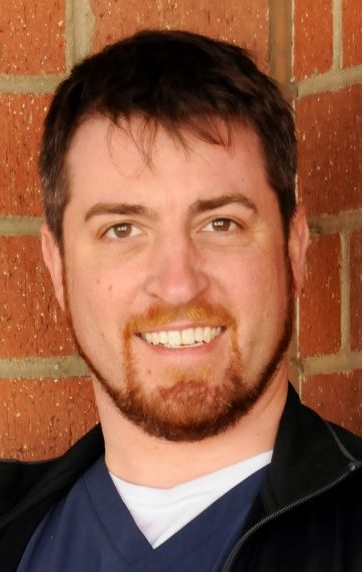
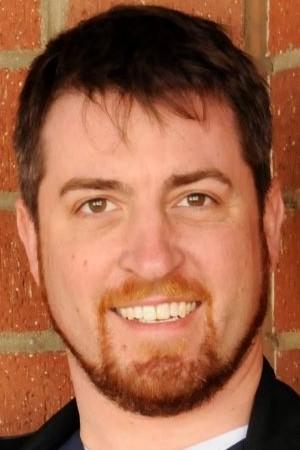
fiximgbug

diff --git a/src/components/bio/bio.scss b/src/components/bio/bio.scss
@@ -1,0 +1,89 @@
+
+.bioContainer {
+    margin-top: 5.5em;
+   
+}
+.bioCardBox {
+    display: flex;
+    flex-wrap: wrap;
+    
+    
+}
+
+.andyPic {
+    border-radius: 25%;
+    width: 43%;
+  
+}
+
+.wrapper {
+    display: flex;
+    justify-content: center;
+    align-items: center;
+    > * {
+      margin: 5px;
+    }
+  }
+  
+  .media {
+    width: 300px;
+    height: 200px;
+    overflow: hidden;
+    position: relative;
+    display: flex;
+    justify-content: center;
+    align-items: center;
+    img {
+        max-width: 100%;
+        height: auto;
+      }
+  }
+  
+  .layer {
+    opacity: 0;
+    position: absolute;
+    display: flex;
+    justify-content: center;
+    align-items: center;
+    width: 10px;
+    height: 90%;
+    background: #FFF;
+    color: #151E3F;
+    transition: all 0.9s ease;
+    p {
+      transition: all 0.9s ease;
+      transform: scale(0.1)
+    }
+  }
+  
+  p {
+    font-family: 'Inconsolata', monospace;
+    text-align: center;
+    font-size: 15px;
+    letter-spacing:1px;
+  }
+  
+  .media:hover .layer {
+    opacity: 0.8;
+    width: 90%;
+    transition: all 0.5s ease;
+    p {
+      transform: scale(1);
+      transition: all 0.9s ease;
+    }
+  }
+  
+  @media (max-width: 800px){
+    body {
+      transform: scale(0.6);
+    }
+  }
+  
+  @media (max-width: 600px) {
+      .wrapper {
+      display: block;
+      > * {
+        margin: 10px;
+      }
+    }
+  }

diff --git a/src/components/bio/Bio.js b/src/components/bio/Bio.js
@@ -3,8 +3,8 @@ import Box from '@mui/material/Box';
 import Card from '@mui/material/Card';
 import Container from '@mui/material/Container';
 
-import './bio.css';
-
+import './bio.scss';
+import resumeData from "../../resumeData.js";
 
 
 import { styled } from '@mui/material/styles';
@@ -25,10 +25,17 @@ export default function Bio() {
     <Box className="bioContainer" sx={{ flexGrow: 1 }}>
       <Grid container spacing={2}>
         <Grid item md={6} xs={12}>
-          <Item >Left item</Item>
+          <Item >
+            <img alt='Andy Humes - Junior Developer' src={resumeData.image} className='andyPic'>
+        
+          </img> 
+          
+          <h1>Welcome to my portfolio.</h1>
+          </Item>
         </Grid>
         <Grid item md={6} xs={12}>
-          <Item >Right item</Item>
+          <Item >This will be a biography sort of thing. If there's room, I might put the links for education etc.
+          </Item>
         </Grid>
       
       </Grid>
